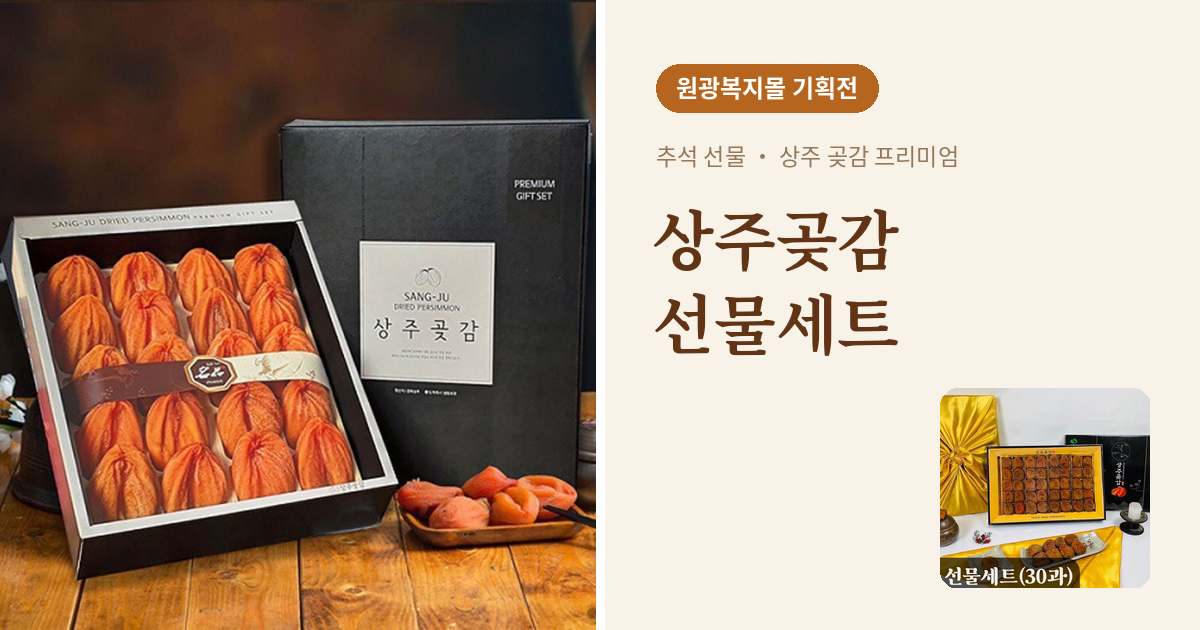
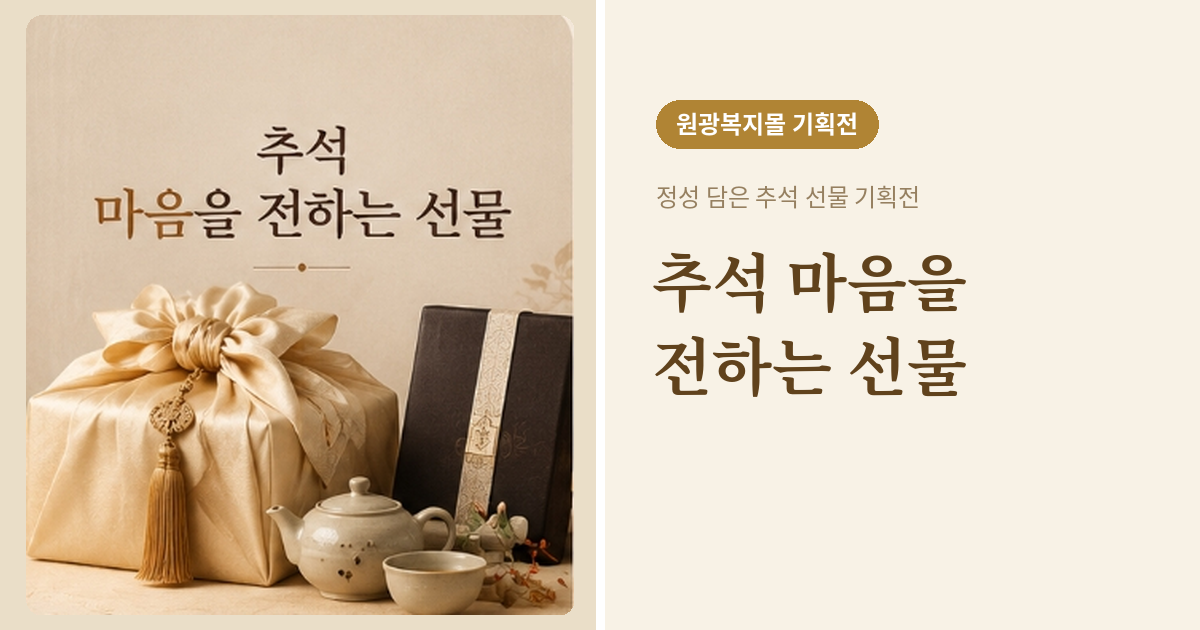
Update g/20260911084812 thumbnail to 추석 마음을 전하는 선물 배너

diff --git a/g/20260911084812/index.html b/g/20260911084812/index.html
@@ -3,24 +3,24 @@
 <head>
 <meta charset="utf-8">
 <meta name="viewport" content="width=device-width, initial-scale=1">
-<title>상주곶감 선물세트 · 원광복지몰 추석 기획전</title>
+<title>추석 마음을 전하는 선물 · 원광복지몰 기획전</title>
 <meta property="og:type" content="website">
-<meta property="og:title" content="상주곶감 선물세트 · 원광복지몰 추석 기획전">
-<meta property="og:description" content="원광복지몰 추석 기획전 · 상주곶감 프리미엄 선물세트">
-<meta property="og:image" content="https://cgsmind-pixel.github.io/groupbuy/thumb-20260911084812.png?v=20260911084812">
-<meta property="og:image:secure_url" content="https://cgsmind-pixel.github.io/groupbuy/thumb-20260911084812.png?v=20260911084812">
+<meta property="og:title" content="추석 마음을 전하는 선물 · 원광복지몰 기획전">
+<meta property="og:description" content="원광복지몰 추석 기획전 · 정성 담은 다양한 추석 선물세트">
+<meta property="og:image" content="https://cgsmind-pixel.github.io/groupbuy/thumb-20260911084812.png?v=20260911084812b">
+<meta property="og:image:secure_url" content="https://cgsmind-pixel.github.io/groupbuy/thumb-20260911084812.png?v=20260911084812b">
 <meta property="og:image:width" content="1200">
 <meta property="og:image:height" content="630">
 <meta name="twitter:card" content="summary_large_image">
-<meta name="twitter:image" content="https://cgsmind-pixel.github.io/groupbuy/thumb-20260911084812.png?v=20260911084812">
+<meta name="twitter:image" content="https://cgsmind-pixel.github.io/groupbuy/thumb-20260911084812.png?v=20260911084812b">
 <style>
   *{box-sizing:border-box;margin:0;padding:0}
-  body{font-family:-apple-system,BlinkMacSystemFont,"Apple SD Gothic Neo","Malgun Gothic",sans-serif;background:#f4ece2;color:#603414;display:flex;justify-content:center}
+  body{font-family:-apple-system,BlinkMacSystemFont,"Apple SD Gothic Neo","Malgun Gothic",sans-serif;background:#f4ece2;color:#60421c;display:flex;justify-content:center}
   .wrap{max-width:720px;width:100%;padding:20px 16px 48px;text-align:center}
   .thumb{display:block;width:100%;border-radius:14px;overflow:hidden;box-shadow:0 6px 24px rgba(0,0,0,.10)}
   .thumb img{width:100%;display:block}
   .msg{margin:22px 0 14px;font-size:16px;color:#557;line-height:1.6}
-  .btn{display:inline-block;background:#b5651d;color:#fff;text-decoration:none;font-size:18px;font-weight:700;padding:16px 34px;border-radius:12px;box-shadow:0 4px 14px rgba(181,101,29,.35)}
+  .btn{display:inline-block;background:#b08434;color:#fff;text-decoration:none;font-size:18px;font-weight:700;padding:16px 34px;border-radius:12px;box-shadow:0 4px 14px rgba(176,132,52,.35)}
 </style>
 </head>
 <body>
@@ -31,7 +31,7 @@
     var TARGET=getTarget();
   </script>
   <a class="thumb" id="thumbLink" href="#" onclick="location.href=TARGET;return false;">
-    <img src="https://cgsmind-pixel.github.io/groupbuy/thumb-20260911084812.png?v=20260911084812" alt="상주곶감 선물세트">
+    <img src="https://cgsmind-pixel.github.io/groupbuy/thumb-20260911084812.png?v=20260911084812b" alt="추석 마음을 전하는 선물">
   </a>
   <p class="msg">이미지를 누르면 추석 선물 기획전으로 이동합니다.</p>
   <a class="btn" id="goBtn" href="#" onclick="location.href=TARGET;return false;">👉 추석 선물 보러가기</a>
